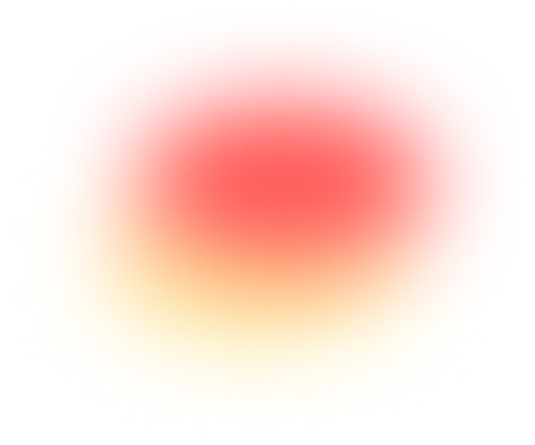
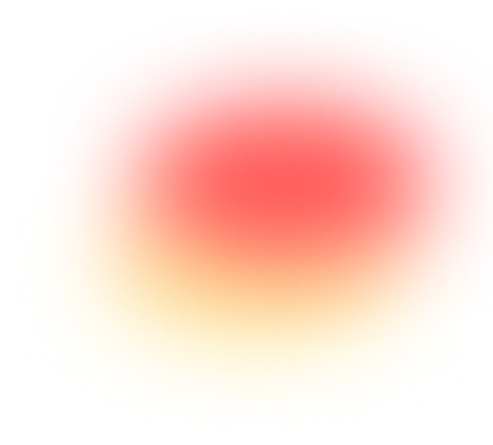
FAQ section image added

Changed region(s): [[0.6998, 0.2629, 0.9432, 0.7011]]

diff --git a/src/Pages/Home/FAQ/FAQ.jsx b/src/Pages/Home/FAQ/FAQ.jsx
@@ -1,4 +1,4 @@
-
+import readyImg from '../../../assets/ready.png';
 
 const FAQ = () => {
     return (
@@ -41,7 +41,13 @@ const FAQ = () => {
                         <p>“Arcu at dictum sapien, mollis. Vulputate sit id accumsan, ultricies. In ultrices malesuada elit mauris.</p>
                     </div>
                 </div>
-                
+            </div>
+            {/* ready to get started image */}
+            <div className='my-2 md:my-24'>
+                <img className='w-full' src={readyImg} alt="" />
+            </div>
+            <div>
+
             </div>
         </div>
     );
